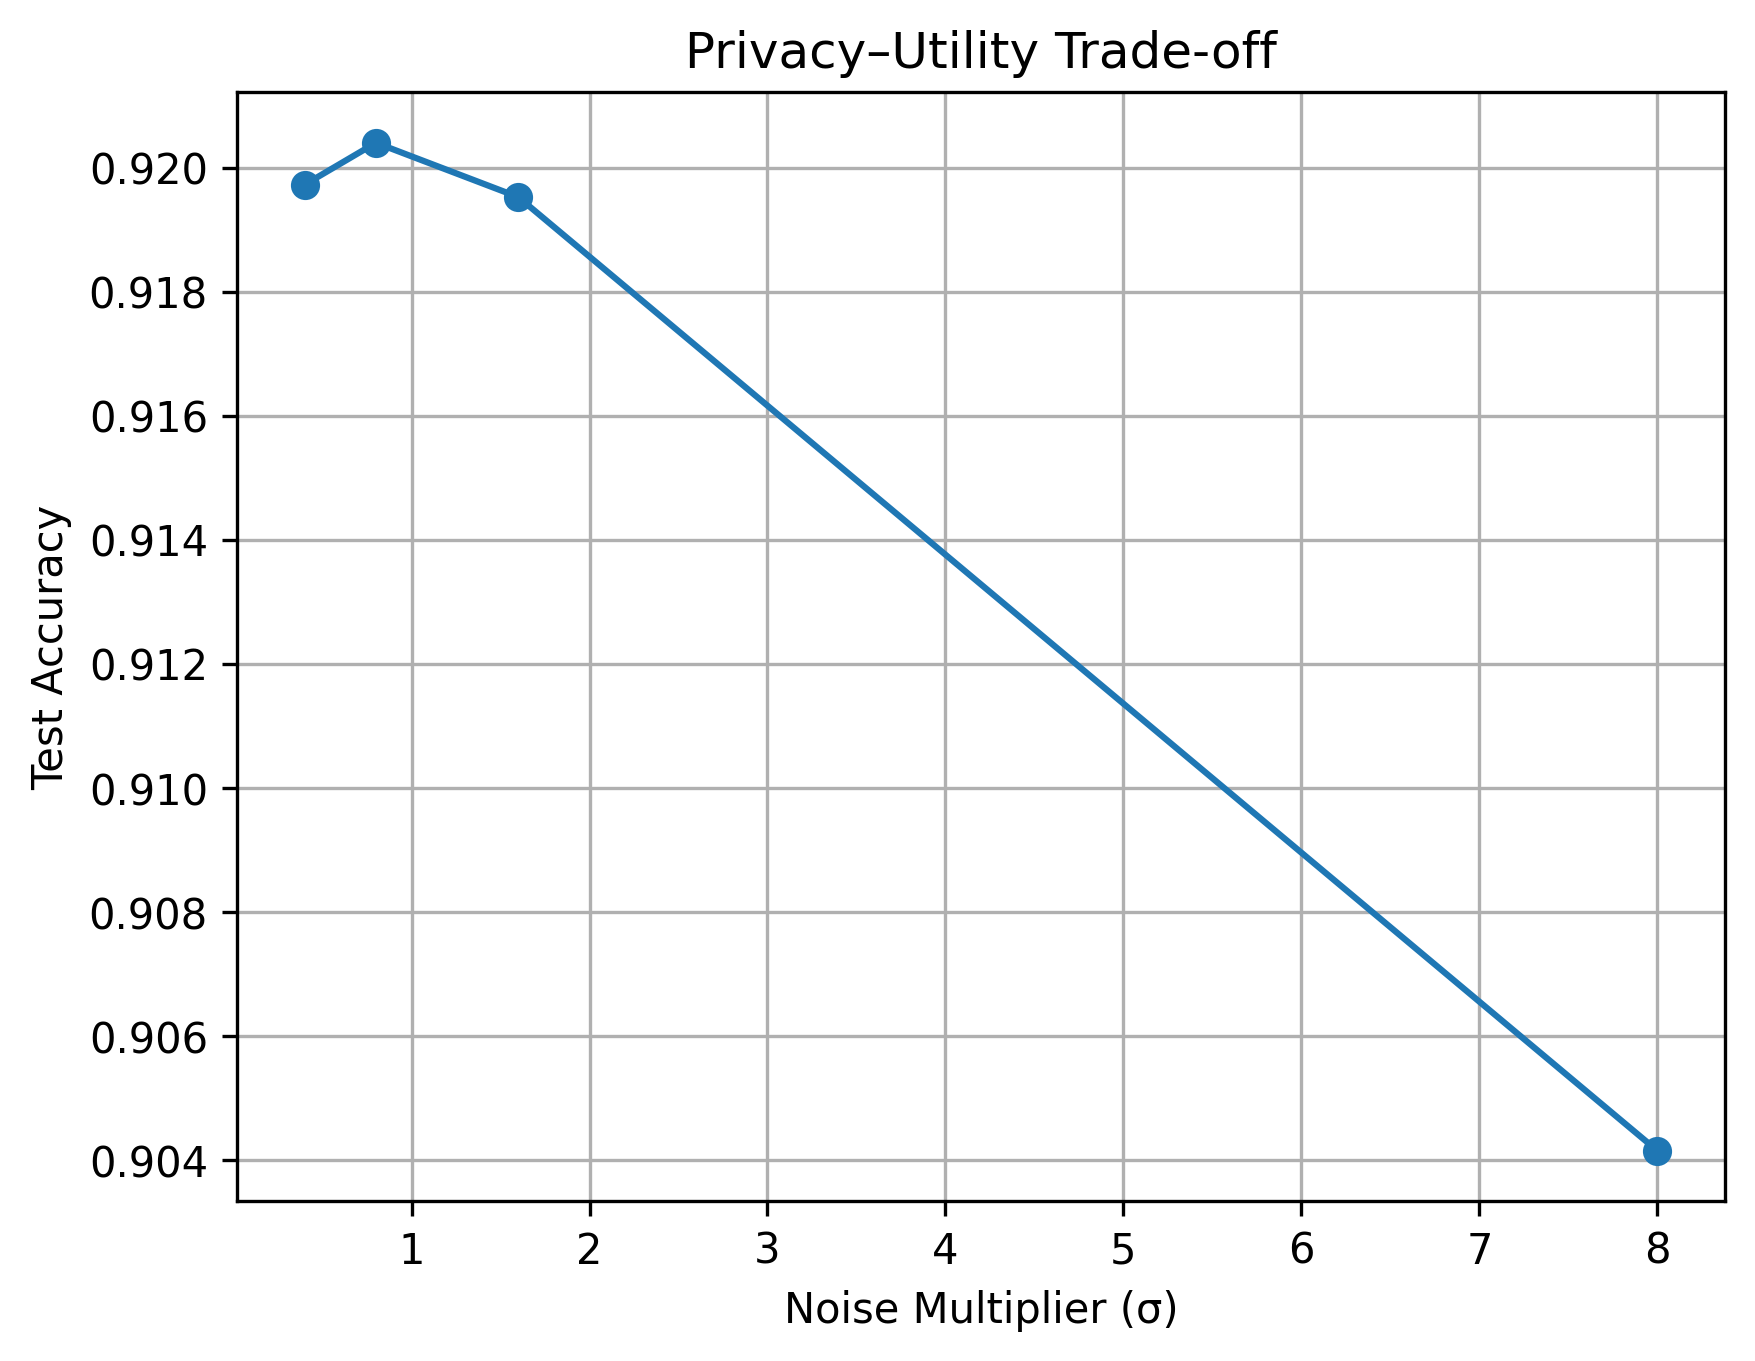
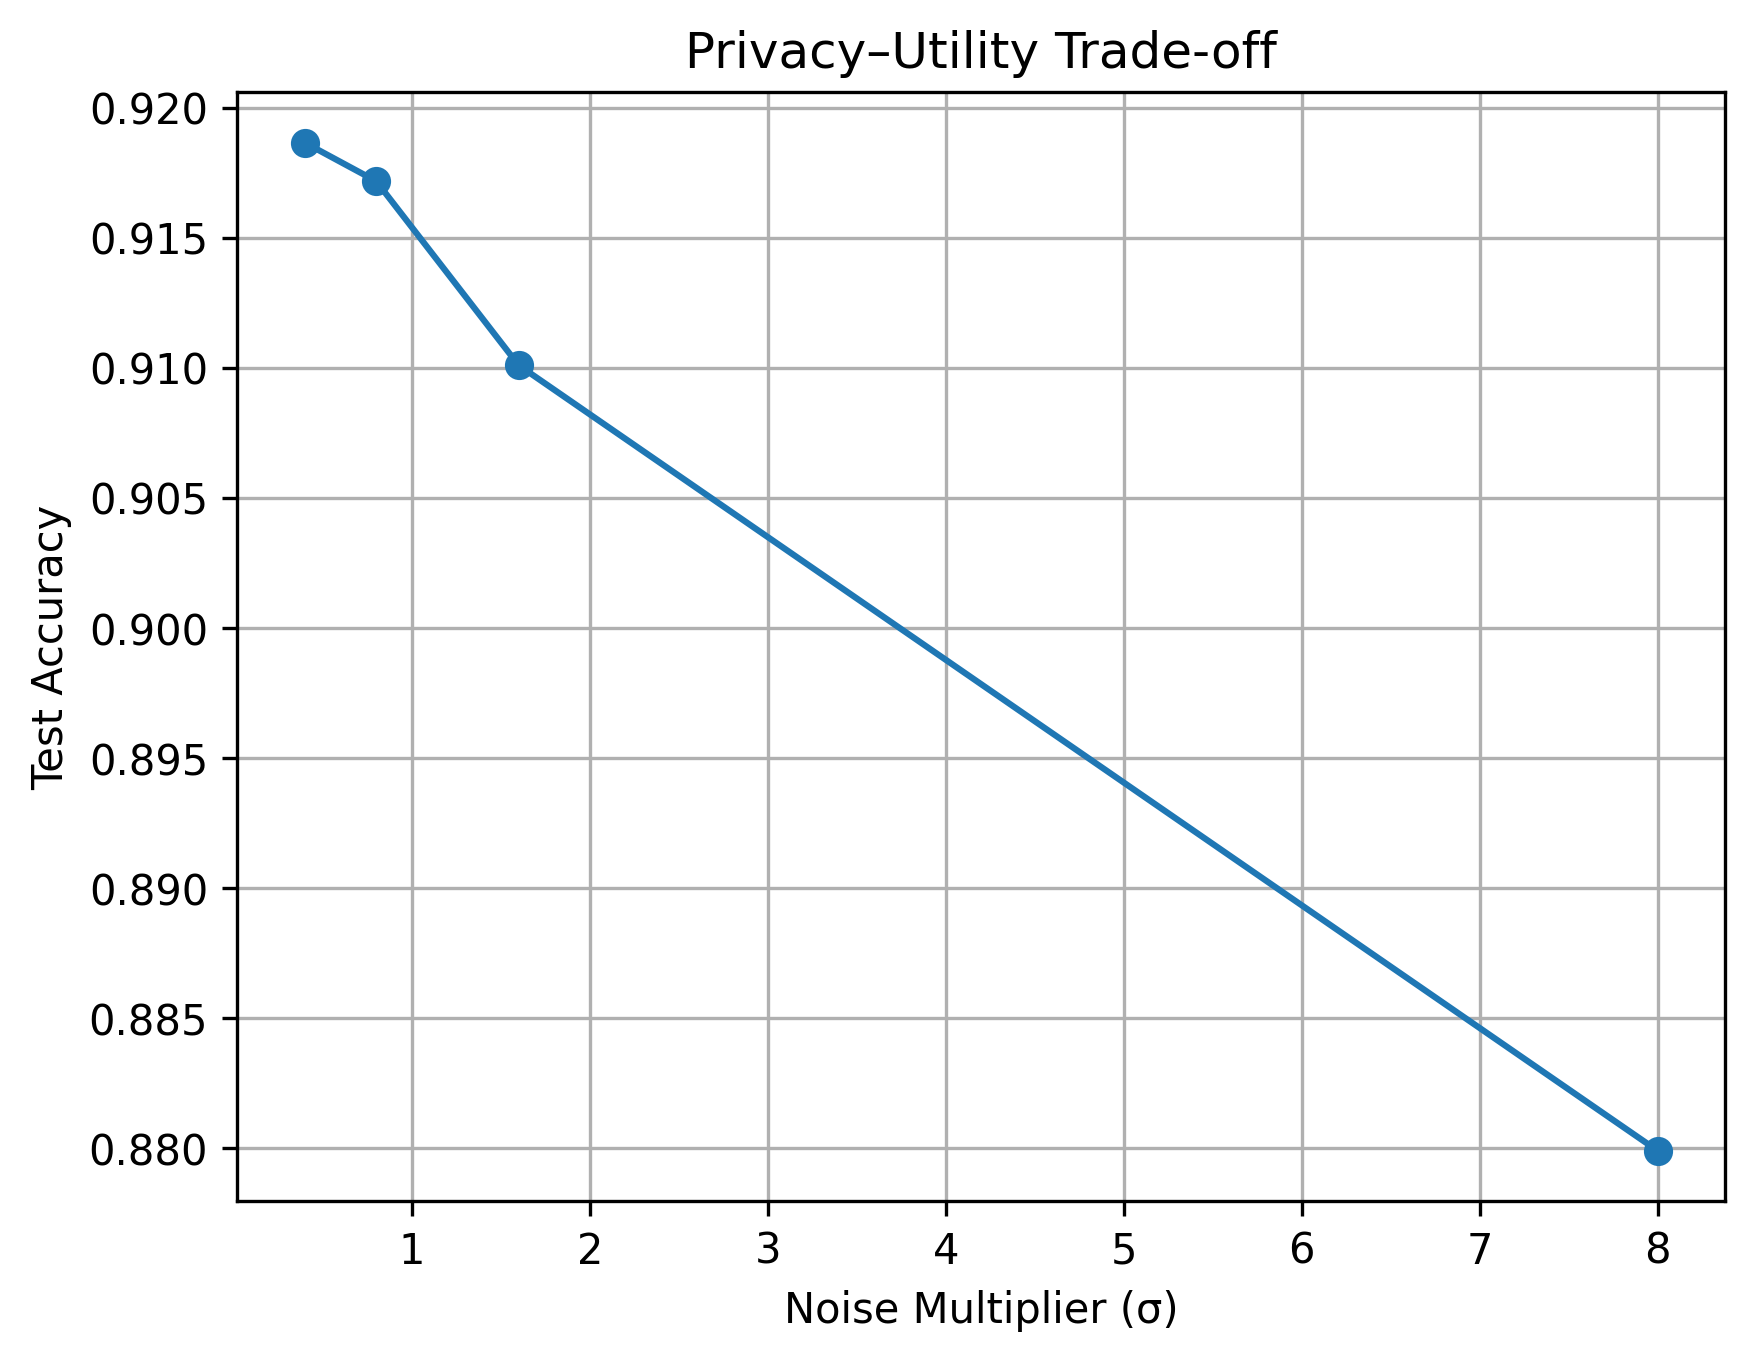
Update noise.py and noise_breast.py parameters

diff --git a/noise.py b/noise.py
@@ -11,10 +11,10 @@ X_train, X_test, y_train, y_test = load_and_preprocess_emnist(
 
 for sigma in noise_levels:
     model = LogisticRegressionDPSGD(
-        lr=0.03,
+        lr=0.005,
         epochs=100,
         batch_size=128,
-        clip_norm=1.0,
+        clip_norm=16.0,
         noise_multiplier=sigma
     )
 

diff --git a/noise_breast.py b/noise_breast.py
@@ -13,7 +13,7 @@ for sigma in noise_levels:
         lr=0.03,
         epochs=100,
         batch_size=32,      
-        clip_norm=1.0,
+        clip_norm=4.0,
         noise_multiplier=sigma
     )
 
